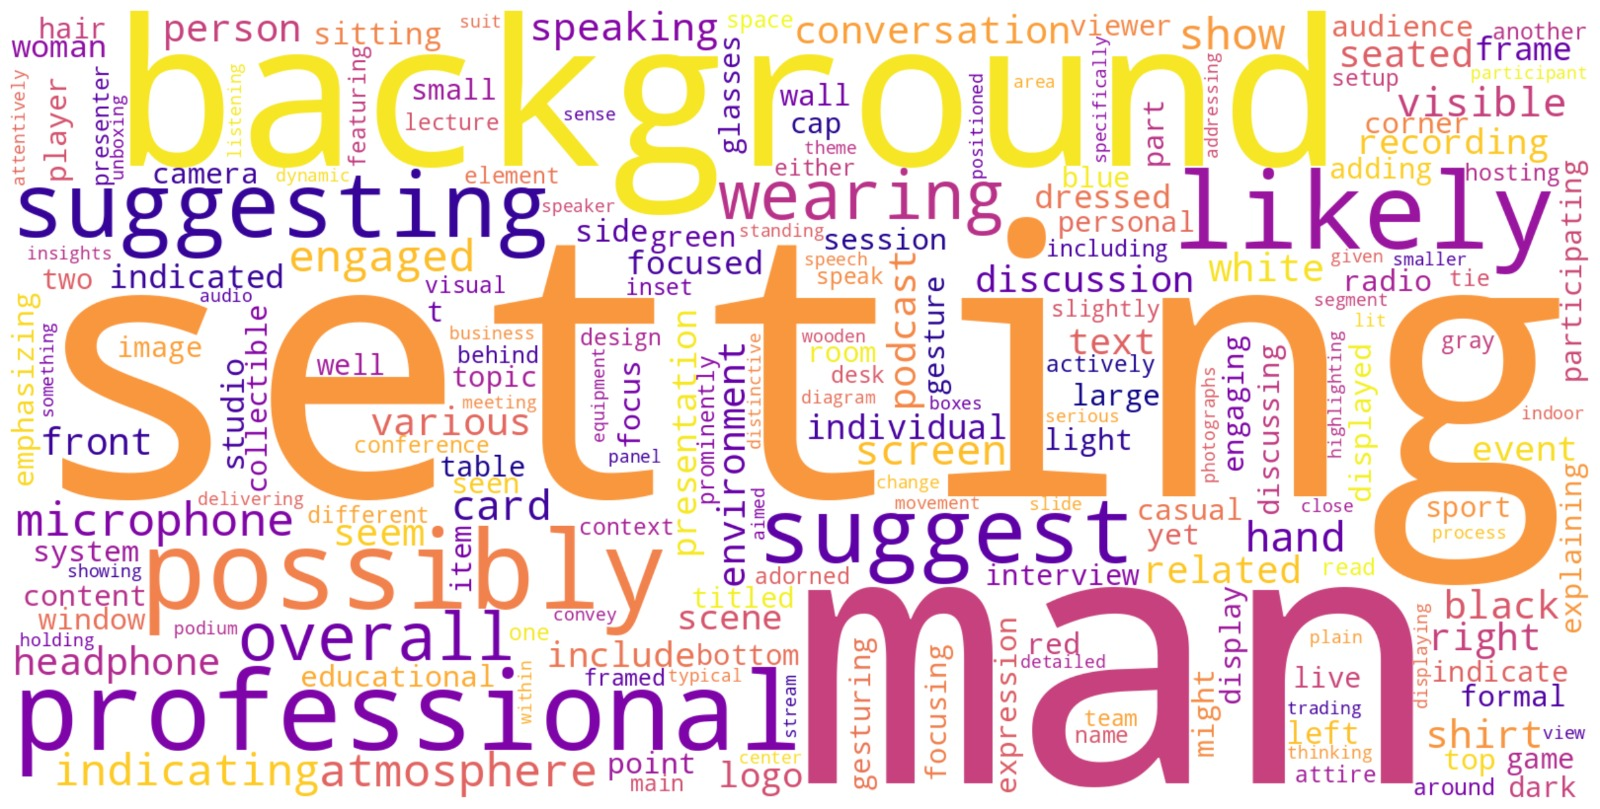
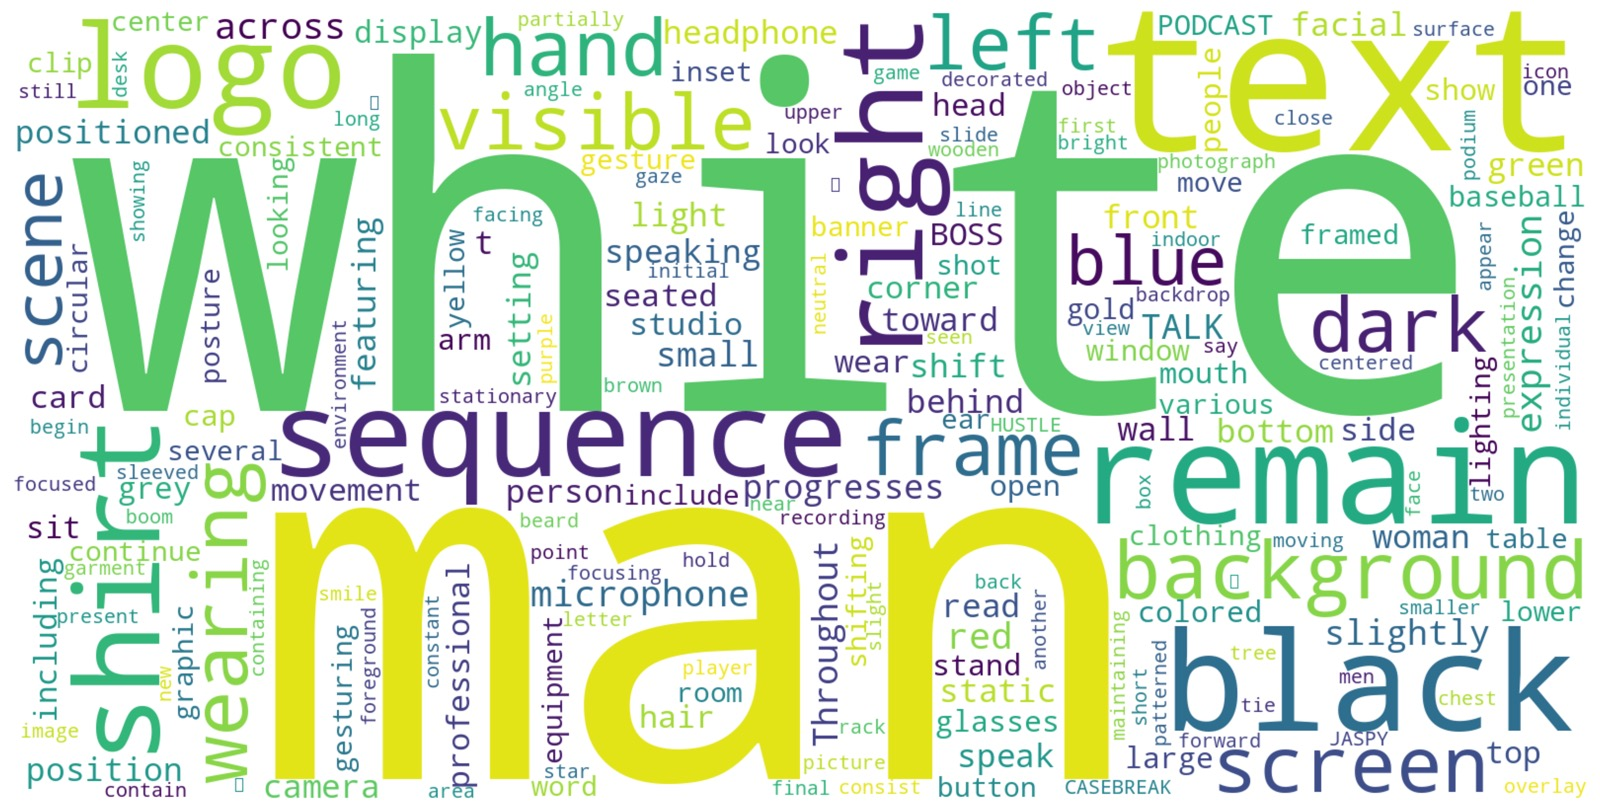
regenerat the word cloud graph

diff --git a/experiments/caption_stats/run.py b/experiments/caption_stats/run.py
@@ -228,7 +228,7 @@ def write_word_cloud(captions: list[str], output_path: Path) -> None:
         width=1600,
         height=800,
         background_color="white",
-        colormap="plasma",
+        colormap="viridis",
         relative_scaling=0.5,
         min_font_size=8,
         max_words=200,

diff --git a/experiments/caption_stats/README.md b/experiments/caption_stats/README.md
@@ -35,6 +35,33 @@ Under `results/caption_stats/`:
   claim marked
 - `word_cloud.png` — figure for §5.2 (only if `wordcloud` is installed)
 
+### Paper figure hand-off
+
+The word-cloud figure in `docs/main.tex` (§5.2) references
+`docs/images/word_cloud.jpeg` (a real JPEG, 1600×809), not the PNG
+written by this script (4860×2460 RGBA). To refresh the paper figure
+after regenerating, actually transcode to JPEG — do not just rename the
+extension, `pdflatex` will reject a PNG-bytes file claiming to be JPEG.
+
+On macOS (built-in `sips`):
+
+```
+sips -s format jpeg --resampleWidth 1600 \
+    results/caption_stats/word_cloud.png \
+    --out docs/images/word_cloud.jpeg
+```
+
+Or with ImageMagick:
+
+```
+magick results/caption_stats/word_cloud.png \
+    -resize 1600x -quality 92 docs/images/word_cloud.jpeg
+```
+
+If you'd rather ship the PNG directly, update the `\includegraphics`
+line in `docs/main.tex` (around line 193) to point at
+`docs/images/word_cloud.png` and skip the conversion step.
+
 ## InternVid access
 
 `OpenGVLab/InternVid` is a **gated** HuggingFace dataset. To include it in the
